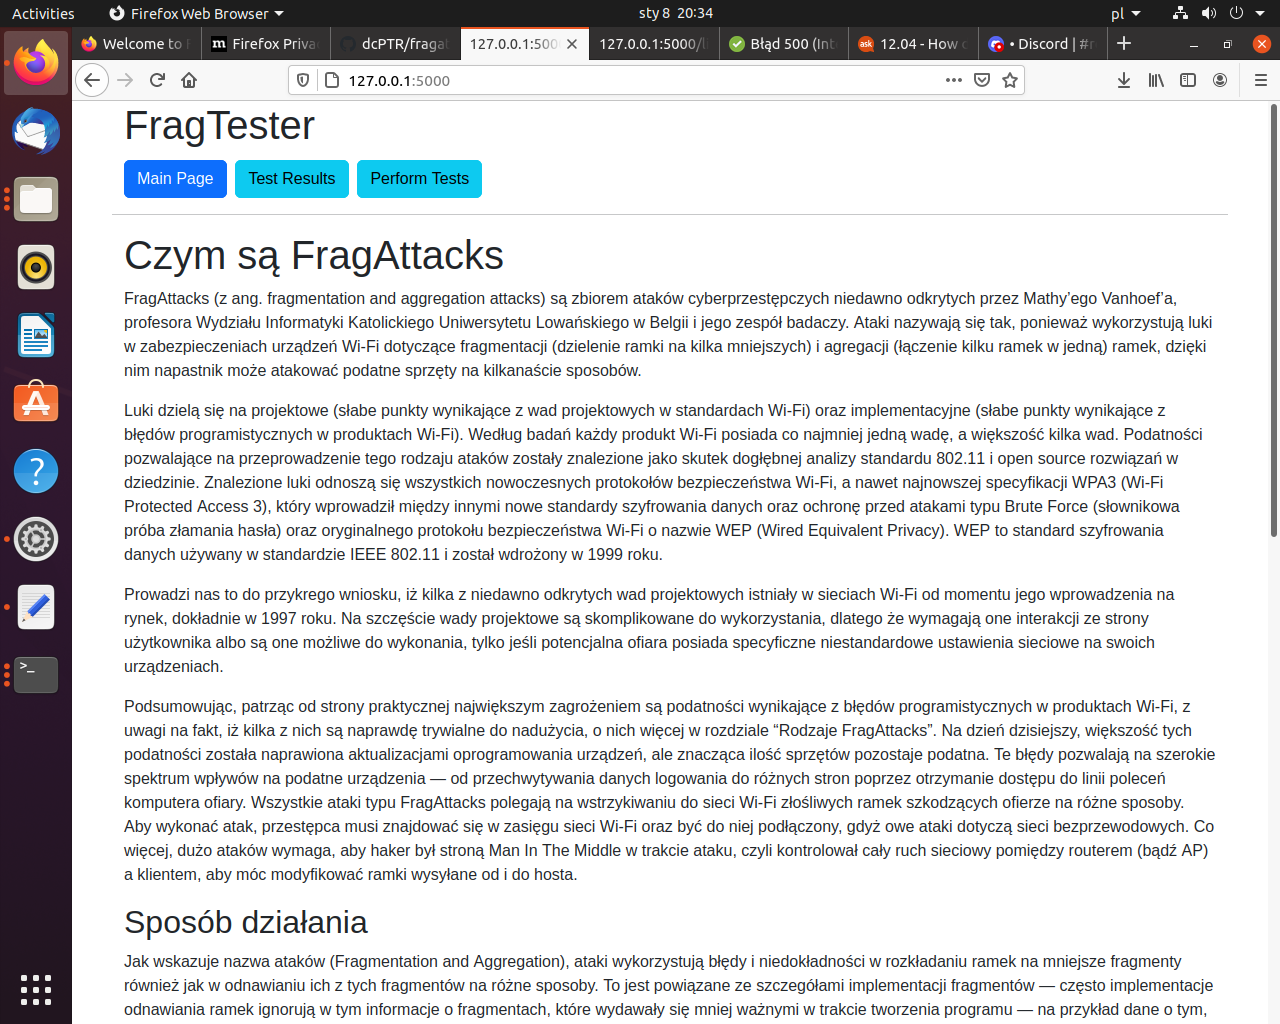
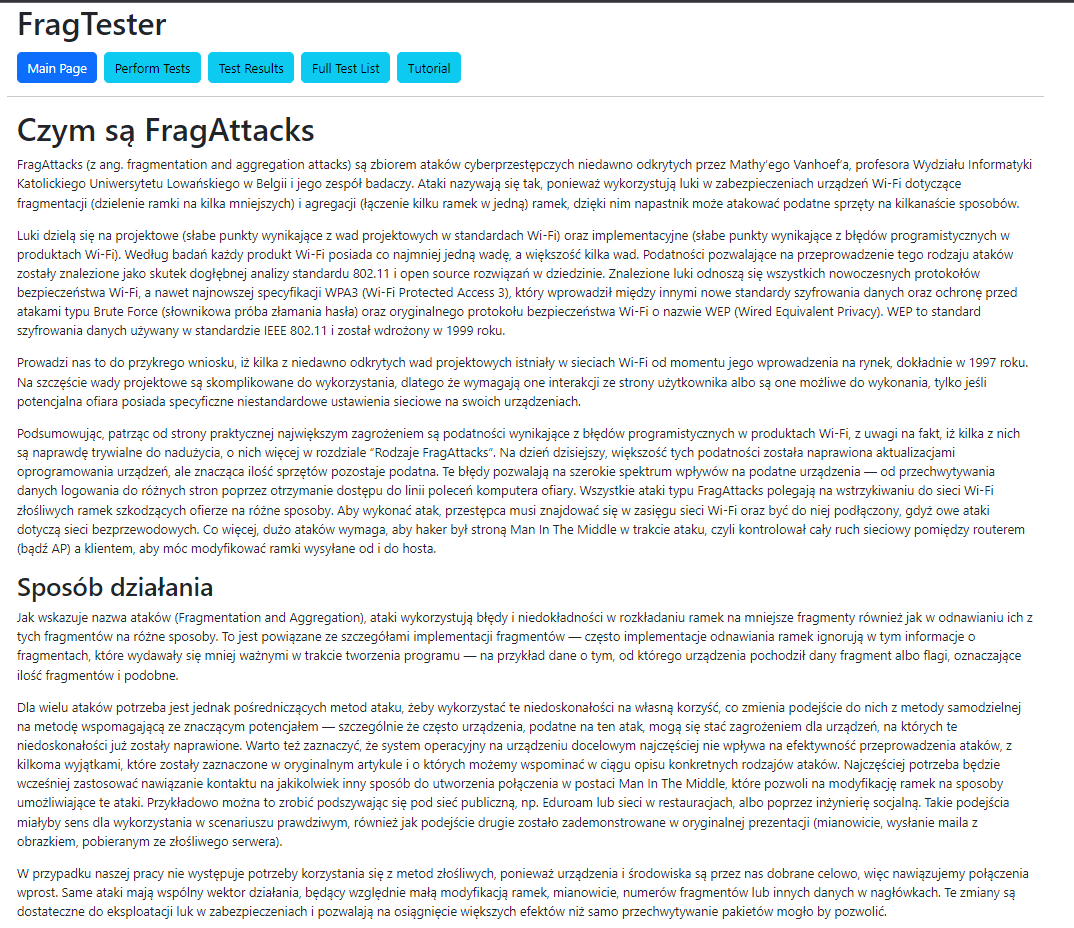
guide update + fix test all display

diff --git a/templates/guide.html b/templates/guide.html
@@ -34,33 +34,36 @@
         <div id="frontpage-container" class="container">
             <h1>Instrukcja korzystania ze stanowiska dydaktycznego do ataków sieciowych klasy FragAttacks</h1>
             <ol>
-            <li>Włóż jeden z 2 dysków twardych leżących na biurku do jednostki centralnej oznaczonej naklejką z numerem 5 lub 6.</li>
-            <li>Podłącz 1 z leżących obok dysków kart sieciowych TP-Link i podłącz je do PC przez USB.</li>
-            <li>Włącz PC</li>
+            <li>Włóż jeden z dwóch dysków twardych leżących na biurku do jednostki centralnej oznaczonej naklejką z numerem 5 lub 6</li>
+            <li>Podłącz jeden z leżących obok dysków kart sieciowych TP-Link i podłącz je do PC przez USB.</li>
+            <li>Włącz PC.</li>
             <li>Zaloguj się na konto użytkownika FragAttacks bądź FragAttacks2 (w zależności czy to komputer 5 lub 6) z hasłem student.</li>
-            <li>Przejdź do folderu research w Eksploratorze plików, Home -> fragattacks -> research</li>
-            <li>Otwórz w dowolnym edytorze tekstowym plik client.conf i zmodyfikuj pola SSID oraz psk w ostatniej klamerce o nazwie "network" na końcu pliku. SSID to nazwa sieci Wi-Fi a psk to hasło do niej. Można przetestować np. własny telefon robiąc z niego hotspota i przepisując wyżej wymienione dane do pliku.</li>
-            <li>Ważne aby komputer nie był podłączony do tej samej sieci Wi-Fi wprowadzonej w pliku client.conf w trakcie testowania podatności. </li>
-            <li>Prawy przycisk myszy na pustą przestrzeń w folderze research i kliknij opcję "Open In Terminal"</li>
-            <li>Uruchom komendę "python3 BackendMongo.py"</li>
-            <li>W Terminalu powinna się pojawić linijka " * Running on http://127.0.0.1:5000 ". Kliknij w link prawym przyciskiem myszy i zaznacz opcję "Open Link" lub ręcznie wprowadzić ten link do paska dowolnej przeglądarki.</li>
+            <li>Przejdź do folderu research w Eksploratorze plików, Home -> fragattacks -> research.</li>
+            <li>Ważne aby komputer nie był podłączony do żadnej sieci Wi-Fi w trakcie testowania podatności, jeżeli jest to należy odłączyć. </li>
+            <li>Kliknij prawym przyciskiem myszy na pustą przestrzeń w folderze research i kliknij opcję "Open In Terminal" </li>
+            <li>Uruchom komendę "python3 BackendMongo.py""</li>
+            <li>W Terminalu powinna się pojawić linijka "* Running on <a href="http://127.0.0.1:5000/">http://127.0.0.1:5000/</a>". Kliknij w link prawym przyciskiem myszy i zaznacz opcję "Open Link" lub ręcznie wprowadzić ten link do paska dowolnej przeglądarki.</li>
             
-            <li>Pokaże się strona startowa aplikacji, z 4 przyciskami do pozostałych stron aplikacji:
+            <li>Pokaże się strona startowa aplikacji, z przyciskami do pozostałych stron:
             
                 <ul>
-                <li>"Main Page" - strona startowa opisująca FragAttacks</li>
+                <li>"Main Page" – strona zawierająca opis o FragAttacks oraz sposobach ochrony przed nimi.</li>
                 
                     <img src="/static/guide/Main_Page.png" alt="Obrazek strony głównej" class="mt-1 mb-3" style="max-height: 50vh;">
                 
-                <li>"Perform Tests" - strona z której uruchamia się testy i są one ładowane do bazy danych AWS po zakończeniu testów. uzupełniać pola zgodnie z tym co nazwa wskazuje</li>
+                <li>"Perform Tests" - strona z której uruchamia się testy, po zakończeniu testów wyniki są przesyłane  do bazy danych MongoDB. Uzupełniać pola zgodnie z tym co nazwa wskazuje, po wprowadzeniu wszystkich danych zatwierdzić testy klikając przycisk "Submit tests".</li>
                 
                     <img src="/static/guide/Perform_Tests_Page.png" alt="Obrazek strony głównej" class="mt-1 mb-3" style="max-height: 50vh;">
                 
-                <li>"Test results" - strona na której można odczytać wyniki testów, trzeba wprowadzić nazwę badanego urządzenia które zostało wpisane w stronie "Perform Tests"</li>
+                <li>"Test Results" - strona na której można odczytać wyniki testów, trzeba wprowadzić nazwę badanego urządzenia oraz wybrać wersję oprogramowania.</li>
                 
                     <img src="/static/guide/Test_Results_Page.png" alt="Obrazek strony głównej" class="mt-1 mb-3" style="max-height: 50vh;">
+
+                <li>"Full Test List" – strona na której można odczytać wyniki wszystkich testów znajdujących się aktualnie w bazie danych.</li>
                 
-                <li>"Tutorial" - niniejsza strona zawierająca instrukcję jak korzystać ze stanowiska dydaktycznego do FragAttacks</li>
+                    <img src="/static/guide/Test_Results_All_Page.png" alt="Obrazek strony głównej" class="mt-1 mb-3" style="max-height: 50vh;">
+                
+                <li>"Tutorial" - strona zawierająca instrukcję jak korzystać ze stanowiska dydaktycznego do FragAttacks.</li>
 
                 </ul>
             </li>

diff --git a/static/list.js b/static/list.js
@@ -294,13 +294,6 @@ function testListAllApiCallback(result, code)
     {
     
         var testList = null
-        // currentDeviceListObject.forEach(e => {
-        //     if(e.device.version === version)
-        //         {
-        //             testList = e
-        //         }
-        //     }
-        // )
 
         result.forEach(device =>
         {
@@ -336,6 +329,7 @@ function testListAllApiCallback(result, code)
                 //these test don't looks for vulnerabilities
                 behavior_tests = ["ping", "ping I,E,E", "ping I,E,E --delay 1", "ping-frag-sep --pn-per-qos"]
 
+
                 if(behavior_tests.indexOf(testName) > -1)
                 {
                     if(testResult === "true")
@@ -360,7 +354,7 @@ function testListAllApiCallback(result, code)
                         row.removeClass("table-danger")
                     }
                 }
-                if(potantial_vuln_tests.indexOf(testName) > -1)
+                else if(potantial_vuln_tests.indexOf(testName) > -1)
                 {
                     if(testResult === "true")
                     {

diff --git a/BackendMongo.py b/BackendMongo.py
@@ -150,7 +150,6 @@ def get_devices():
         output += f'"{device["device"]["name"]}",'
     output = output[:-1]
     output += ']}'
-    print("Output: " + output)
 
     response_text = f"{output}".replace("'", '"')
     print("Response text: " + response_text)
@@ -177,7 +176,6 @@ def interfaces():
 
 def test_thread_func(request_form):
     print("Starting test thread")
-    print(request_form)
     global db
     data = json.loads(request_form)
     request_data = data.get("request")
